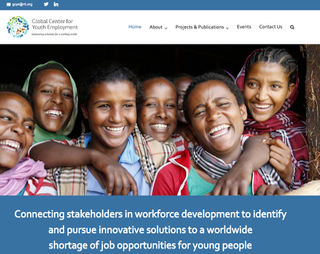
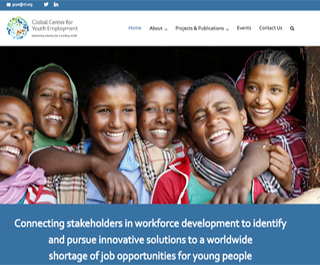
Viewport & Image Tweaks

diff --git a/css/cherylvelez.css b/css/cherylvelez.css
@@ -24,9 +24,8 @@ main {
   background-size: cover;
   background-position-x: center;
   background-position-y: center;
-  display: -webkit-box;
-  display: -ms-flexbox;
-  display: flex;
+  display: -webkit-flex;
+    display: flex;   
   -webkit-box-orient:vertical;
   -webkit-box-direction:normal;
       -ms-flex-direction:column;
@@ -45,8 +44,8 @@ main {
   padding-left: 20px;
 }
 .showme {
-  display:-webkit-box;
-  display:-ms-flexbox;
+  display: -webkit-flex;
+  
   display:flex;
   opacity:0;
   -webkit-animation: 1.2s fadein 1s forwards;
@@ -181,8 +180,8 @@ home, profile, portfolio, playground {
           flex: 1 1 100%;
   padding: 10px;
   overflow: hidden;
-  display:-webkit-box;
-  display:-ms-flexbox;
+  display: -webkit-flex;
+  
   display:flex;
   -webkit-box-align: center;
       -ms-flex-align: center;
@@ -197,12 +196,12 @@ profile1, profile2, profile3, profile4 {
       -ms-flex-align: center;
           align-items: center;
   width: 70vw;
-  height: 30vh;
+  /*height: 30vh;*/
   line-height: 1.8rem;
 }
 .profileIcons {
-  display:-webkit-box;
-  display:-ms-flexbox;
+  display: -webkit-flex;
+  
   display:flex;
   -webkit-box-orient:vertical;
   -webkit-box-direction:normal;
@@ -290,6 +289,7 @@ playground {
 .links {
   display:flex;
   flex-direction:column;
+  align-items: center;
 }
 .links > a:hover, .links > a:active {
   color:#000;
@@ -317,16 +317,17 @@ div.item {
   float: left;
   overflow: hidden;
   margin: 10px 1%;
-  height: 184px;
+  height: 150px;
   width: 100%;
   text-align: center;
-  display: none;
+  /*display: none;*/
   overflow: hidden;
 }
 
-div.item:first-of-type, div.item:nth-of-type(2), div.item:nth-of-type(3), div.item:nth-of-type(6) {
+/* div.item:first-of-type, div.item:nth-of-type(2), div.item:nth-of-type(3), div.item:nth-of-type(6) {
   display:block;
-}
+} */
+
 div.item * {
   -webkit-box-sizing: border-box;
           box-sizing: border-box;
@@ -441,8 +442,8 @@ nav div > i {
 } 
 
 .navlink {
-  display:-webkit-box;
-  display:-ms-flexbox;
+  display: -webkit-flex;
+  
   display:flex;
   -webkit-box-orient: horizontal;
   -webkit-box-direction: normal;
@@ -461,8 +462,8 @@ nav div > i {
 }
 
 .navlink div {
-  display:-webkit-box;
-  display:-ms-flexbox;
+  display: -webkit-flex;
+  
   display:flex;
   -webkit-box-orient:vertical;
   -webkit-box-direction:normal;
@@ -574,12 +575,12 @@ a {
           justify-content: space-around;
     }
     portfolio {
-      -webkit-box-orient: horizontal;
+      -webkit-box-orient: vertical;
       -webkit-box-direction: normal;
-          -ms-flex-direction: row;
-              flex-direction: row;
-      -ms-flex-wrap: wrap;
-          flex-wrap: wrap;
+          -ms-flex-direction: column;
+              flex-direction: column;
+      /*-ms-flex-wrap: wrap;
+          flex-wrap: wrap;*/
     }
     .profileIcons, .links {
       -webkit-box-orient:horizontal;
@@ -594,16 +595,26 @@ a {
       line-height:normal;
     }
     
+    playground p {
+      line-height:normal; 
+      align-items: center;
+      padding: 10px;
+    }
     .portText {
       padding: 4px;
       text-align:center;
+      line-height:normal;
     }
     div.item {
-      margin: 0px;
-      min-width: 86px;
-      max-width: 0;
+      margin: 14px;
+    /* min-width: 86px; */
+    width: 50px;
+    height: 50px;
     }
-    div.item:active {
+    div.item i {
+      display:none;
+    }
+    div.item:active, div.item i, div.item:hover i {
       -webkit-transition: none;
       -o-transition: none;
       transition: none;
@@ -613,6 +624,9 @@ a {
     }
     article {
       height:50vh;
+    }
+    .portItems {
+      flex-wrap: wrap;
     }
 }
 
@@ -654,23 +668,30 @@ a {
     line-height: 1.5rem;
     padding:19px;
   }
-  portfolio {
+  /*portfolio {
     -webkit-box-orient:horizontal;
     -webkit-box-direction:normal;
         -ms-flex-direction:row;
             flex-direction:row;
-  }
+  }*/
   
   .portText {
     padding: 4px;
     text-align:center;
   }
-  div.item {
-    margin: 0px;
-    min-width: 86px;
-    max-width: 0;
+  .portItems {
+    flex-wrap: wrap;
   }
-  div.item:active {
+  div.item {
+    margin: 14px;
+    /* min-width: 86px; */
+    width: 50px;
+    height: 50px;
+  }
+  div.item i {
+    display:none;
+  }
+  div.item:active, div.item i, div.item:hover i {
     -webkit-transition: none;
     -o-transition: none;
     transition: none;
@@ -680,5 +701,9 @@ a {
   }
   playground h2 {
     display:none;
+  }
+  playground p {
+    line-height:1.2rem;
+    padding: 10px;
   }
 }

diff --git a/index.html b/index.html
@@ -1,5 +1,6 @@
 <html>
 <head>
+<meta name="viewport" content="width=device-width, initial-scale=1">
 <script src="https://cdnjs.cloudflare.com/ajax/libs/jquery/3.2.1/jquery.min.js"></script>
 <script src="js/cherylvelez.js"></script>
 <link rel="stylesheet" href="css/cherylvelez.css">
@@ -29,7 +30,7 @@
         <profile1 class="showme">I'm passionate about three things: quality, elegance and efficiency, which is the essence of every successful website project. It's this passion for elegant design and my talent for web development that equips me with the ability to provide a superior product and service to my employers and their clients.</profile1>
         <profile2>I work alongside talented designers to produce a full-featured, engaging website experience. As lead developer, I successfully manage the full life-cycle of website projects including, concept, strategy, coding, version control, user testing, and ultimately - deployment.</profile2>
         <profile3>With the ever changing landscape of web development, I pick up new techniques and apply them to current projects whenever possible. As a lifelong learner, I am self-taught through online courses, self-paced study and old-fashioned elbow grease. Nearly all of my programming knowledge comes from self-paced study.</profile3>
-        <profile4>My career began at an Internet Service Provider in the mid 90's. Since then, I have held various titles including System Administrator, Lead Developer, and UX Designer. My talents are constantly evolving, and my skillset grows with each new technique I learn. Currently, I'm studying web animation.</profile4>
+        <profile4>My career began at an Internet Service Provider in the mid 90's. Since then, I have held various titles including System Administrator, Lead Developer, and UX Designer. My talents are constantly evolving, and my skillset grows with each new technique I learn. Currently, I'm studying web animation techniques and mobile development with React and asychronous JavaScript.</profile4>
       </profile>
 			<portfolio>
             <h2>Here are some samples of recent website projects completed for RTI International.</h2>
@@ -79,7 +80,7 @@
           <a href="https://github.com/OneGrumpyBunny/" target="_blank"><i class="fab fa-github-square"></i> </a>
           <a href="http://blog.cherylvelez.com/" target="_blank"><i class="fab fa-wordpress"></i></a>
         </div>
-        <p>My recent side projects have involved efforts to sharpen and update my JavaScript and mobile layout skills. My goal has been to replace vanilla JavaScript with jQuery, replace GRID Framework with Flexbox, and code my own versions of the dynamic animated effects bundled with Bootstrap. Take a look below, and enjoy.</p>
+        <p>My recent side projects have involved efforts to sharpen and update my JavaScript and mobile layout skills. My goal has been to replace vanilla JavaScript with jQuery, replace GRID Framework with Flexbox, and code my own versions of the dynamic animated effects bundled with Bootstrap. Take a look, and enjoy.</p>
         
 			</playground>
      
